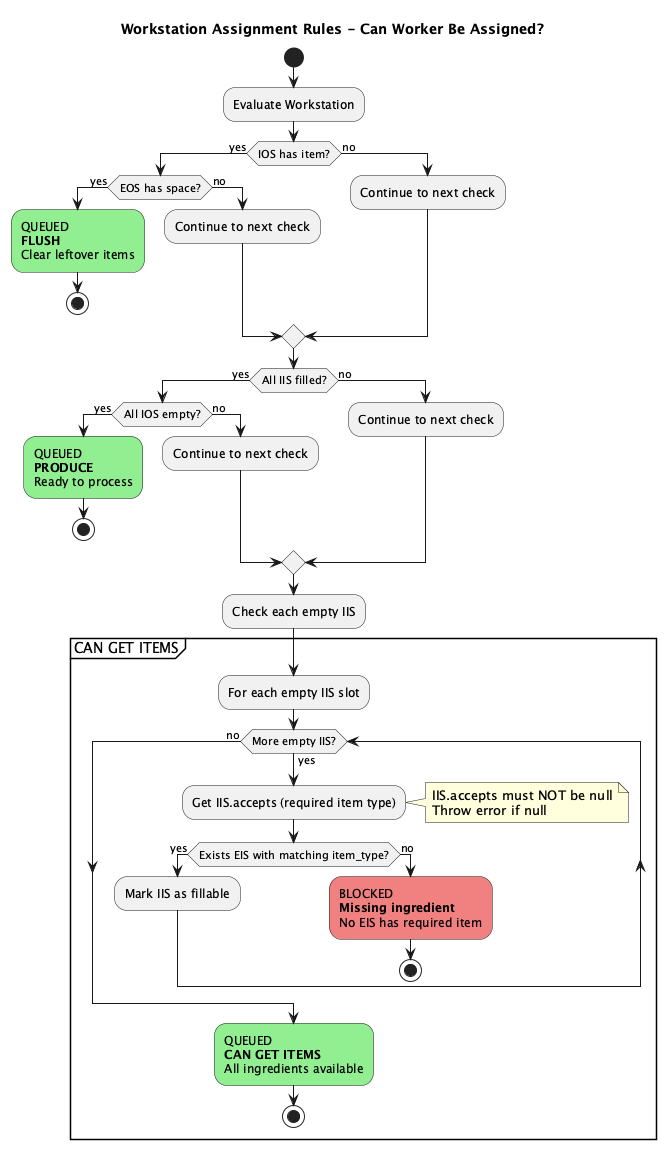
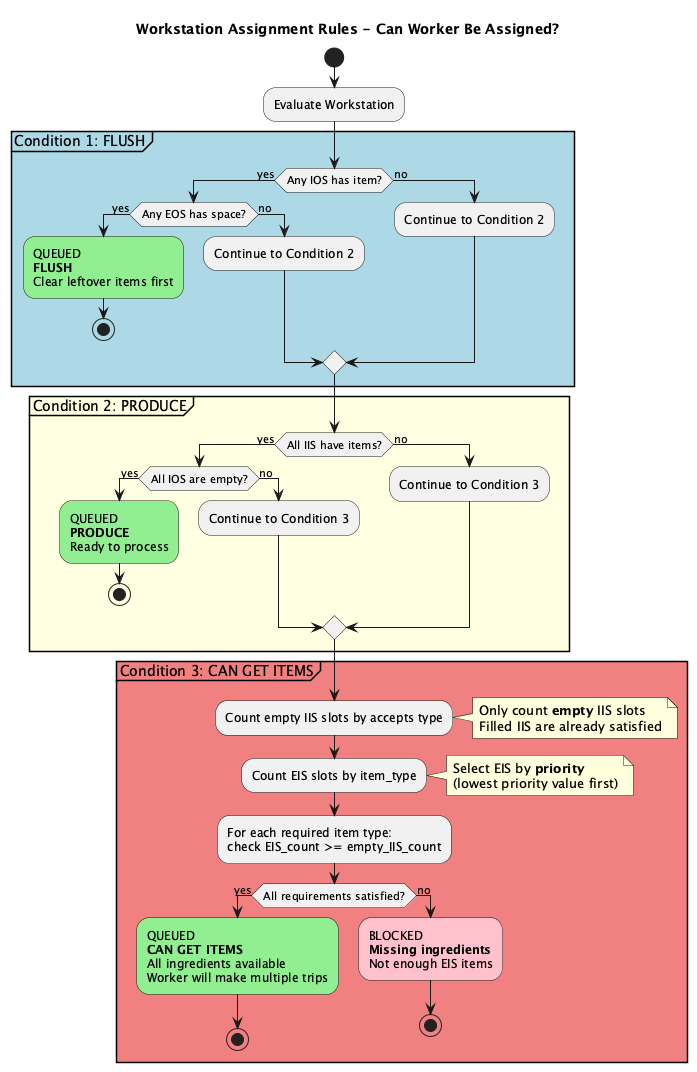
docs: resolve open questions in workstation assignment rules
Resolved questions:
1. Multiple IIS same type: Need multiple EIS, worker makes multiple trips
2. Partial matching: Full match required (check only empty IIS slots)
3. EIS selection: Priority-based (lowest priority value first)
4. Partially filled IIS: Only check empty slots for Condition 3

Updated Condition 3 with detailed matching algorithm:
- Count empty IIS slots by accepts type
- Count EIS slots by item_type
- Verify EIS_count >= empty_IIS_count for each type

Added examples for all edge cases in RFC.

🤖 Generated with [Claude Code](https://claude.com/claude-code)

diff --git a/rfcs/035-worker-movement-states.md b/rfcs/035-worker-movement-states.md
@@ -349,24 +349,64 @@ Result: CAN ASSIGN (worker will start process_started)
 
 ```
 For each empty IIS, there exists an EIS with matching item type
+(counting duplicates - need one EIS per empty IIS slot)
 ```
 
 **Purpose**: The required ingredients are available in external storage to fill the workstation inputs.
 
-**Matching Rule**: `IIS.accepts` must match `EIS.item_type`
+**Matching Algorithm**:
+1. Count empty IIS slots grouped by `accepts` type
+2. Count EIS slots grouped by `item_type`
+3. For each required item type: `EIS_count >= empty_IIS_count`
 
-**Example**:
+**Example 1 - Simple match**:
 ```
 IIS: [accepts: Potato (empty), accepts: Water (empty)]
 EIS: [item: Potato, item: Water, item: Flour]
-Result: CAN ASSIGN (worker will pickup Potato and Water from EIS)
+
+Required: {Potato: 1, Water: 1}
+Available: {Potato: 1, Water: 1, Flour: 1}
+Result: CAN ASSIGN
 ```
 
-**Counter-example**:
+**Example 2 - Multiple same type**:
+```
+IIS: [accepts: Potato (empty), accepts: Potato (empty)]
+EIS: [item: Potato, item: Potato]
+
+Required: {Potato: 2}
+Available: {Potato: 2}
+Result: CAN ASSIGN (worker makes 2 trips)
+```
+
+**Example 3 - Insufficient count**:
+```
+IIS: [accepts: Potato (empty), accepts: Potato (empty)]
+EIS: [item: Potato]
+
+Required: {Potato: 2}
+Available: {Potato: 1}
+Result: CANNOT ASSIGN (need 2 Potatoes, only have 1)
+```
+
+**Example 4 - Partially filled IIS**:
+```
+IIS: [accepts: Potato (has Potato), accepts: Water (empty)]
+EIS: [item: Water]
+
+Required: {Water: 1}  ← only check empty slots
+Available: {Water: 1}
+Result: CAN ASSIGN
+```
+
+**Counter-example - Missing ingredient**:
 ```
 IIS: [accepts: Potato (empty), accepts: Butter (empty)]
 EIS: [item: Potato, item: Water]
-Result: CANNOT ASSIGN (no EIS has Butter)
+
+Required: {Potato: 1, Butter: 1}
+Available: {Potato: 1, Water: 1}
+Result: CANNOT ASSIGN (no Butter available)
 ```
 
 ### Important Constraints
@@ -422,15 +462,42 @@ When a worker arrives at a workstation, the engine handles conditions in priorit
 | 2 | All IIS filled | Start processing (PRODUCE) |
 | 3 | IIS needs items | Pickup from EIS (CAN GET ITEMS) |
 
-### Open Questions
+### Resolved Questions
 
-1. **Multiple IIS needing same item type**: If two IIS slots accept `Potato`, do we need two EIS with potatoes, or can one EIS supply both (worker makes two trips)?
+1. **Multiple IIS needing same item type**: Need **multiple EIS** with the same item type. Worker makes multiple trips, one EIS per IIS slot.
 
-2. **Partial matching**: What if only some IIS can be filled? Should worker start partial work or wait for all ingredients?
+   **Example**:
+   ```
+   IIS: [accepts: Potato (empty), accepts: Potato (empty)]
+   EIS: [item: Potato, item: Potato, item: Flour]
+   Result: CAN ASSIGN (worker trips: EIS[0]→IIS[0], EIS[1]→IIS[1])
 
-3. **EIS selection strategy**: When multiple EIS have the same item type, which one to pick from? Closest? Priority? First available?
+   EIS: [item: Potato, item: Flour]
+   Result: CANNOT ASSIGN (only one Potato, need two)
+   ```
 
-4. **IIS already partially filled**: If some IIS are filled and some empty, should Condition 3 only check the empty ones?
+2. **Partial matching**: **Full match required** for initial assignment. All empty IIS slots must have a matching EIS available. Exception: if IIS is already partially filled (some slots have items), only check the empty slots.
+
+   **Example**:
+   ```
+   IIS: [accepts: Potato (has Potato), accepts: Water (empty)]
+   EIS: [item: Water]
+   Result: CAN ASSIGN (only need Water, Potato already present)
+
+   IIS: [accepts: Potato (empty), accepts: Water (empty)]
+   EIS: [item: Water]
+   Result: CANNOT ASSIGN (need both Potato and Water)
+   ```
+
+3. **EIS selection strategy**: **Priority-based**. Select EIS with the **lowest priority value first** (lower = higher priority). When priorities are equal, use first available.
+
+   **Example**:
+   ```
+   EIS: [item: Potato, priority: 2], [item: Potato, priority: 1]
+   Worker picks from: EIS[1] (priority 1 < priority 2)
+   ```
+
+4. **Partially filled IIS**: **Only check empty IIS slots** for Condition 3. If some IIS already have items, those are satisfied and don't need EIS matching.
 
 ## References
 
